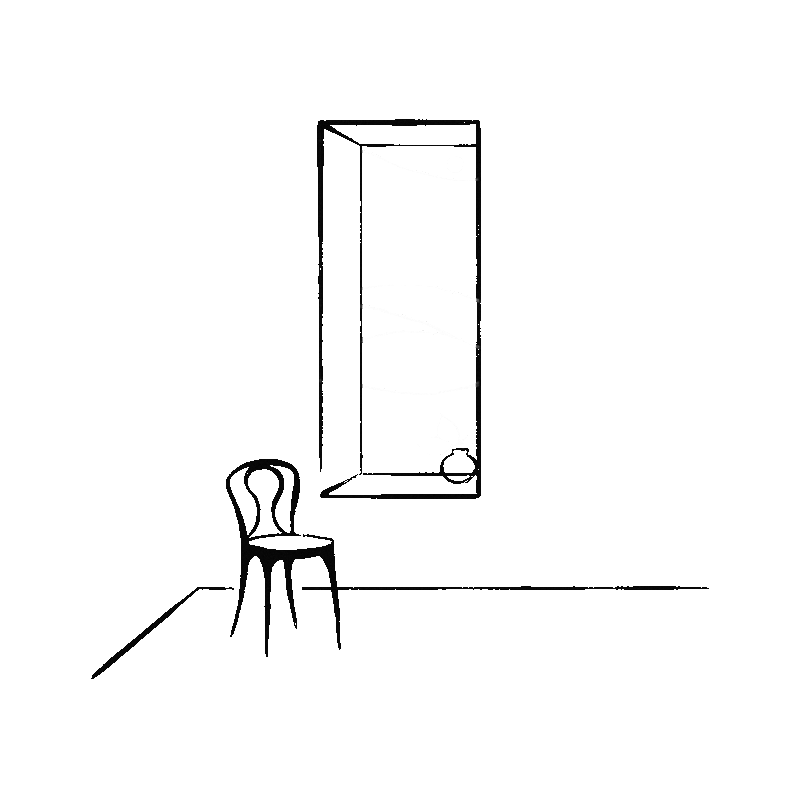
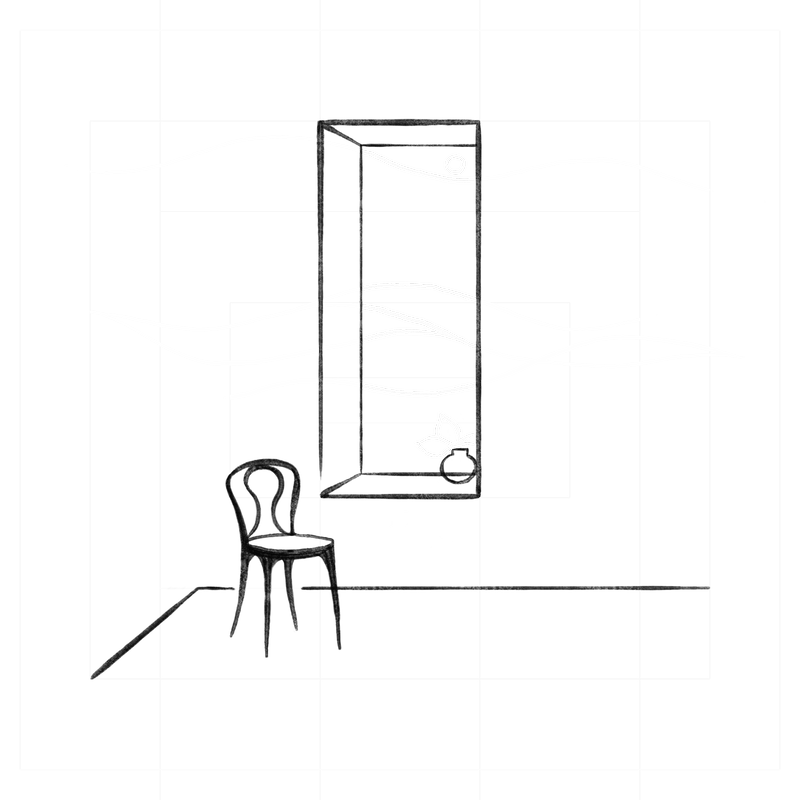
Peek: re-export crisp assets (drop lossy palette quantization)
The palette quantization (256 colors + dithering) pixelated the line
art. Re-export at 800px full 8-bit instead:
- Blue background -> JPEG (no transparency needed): crisp, 71KB
  (was a 485KB dithered PNG; lossless PNG would be 749KB).
- No-background -> non-quantized PNG with alpha: crisp, 132KB.

diff --git a/index.html b/index.html
@@ -68,7 +68,7 @@
     <!-- Peek: masked illustration in the top-right. Expands on hover; click to
          pin it open (swaps to the no-background version + border); click to collapse. -->
     <div class="peek" style="--i:4">
-      <img class="peek-img peek-img-blue" src="assets/images/peek-room.png" alt="Illustration of a chair beside a tall alcove in a blue room">
+      <img class="peek-img peek-img-blue" src="assets/images/peek-room.jpg" alt="Illustration of a chair beside a tall alcove in a blue room">
       <img class="peek-img peek-img-plain" src="assets/images/peek-room-plain.png" alt="" aria-hidden="true">
     </div>
 